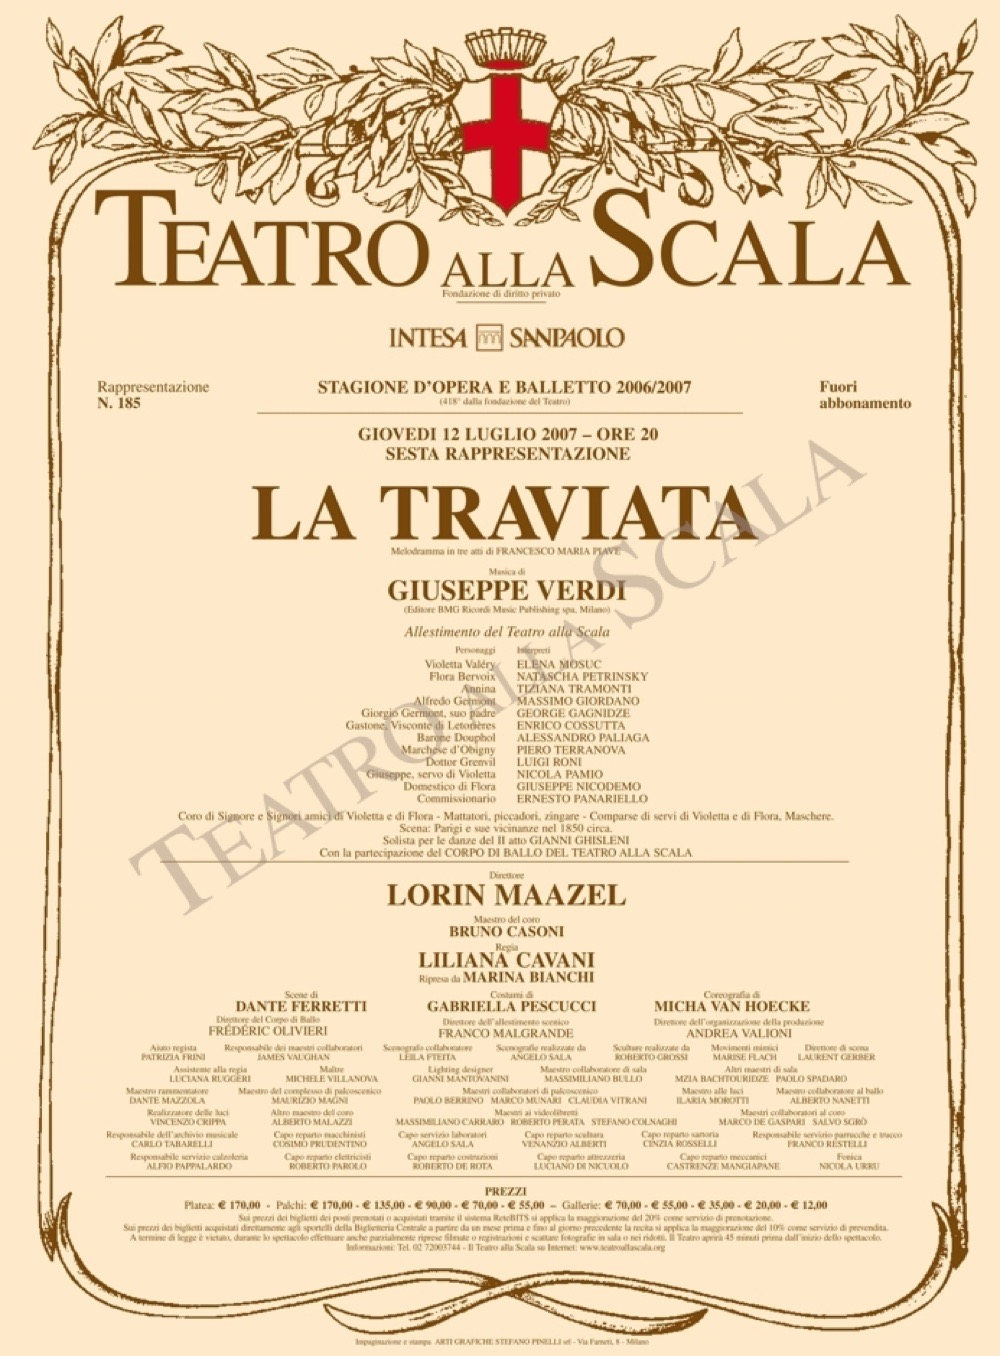
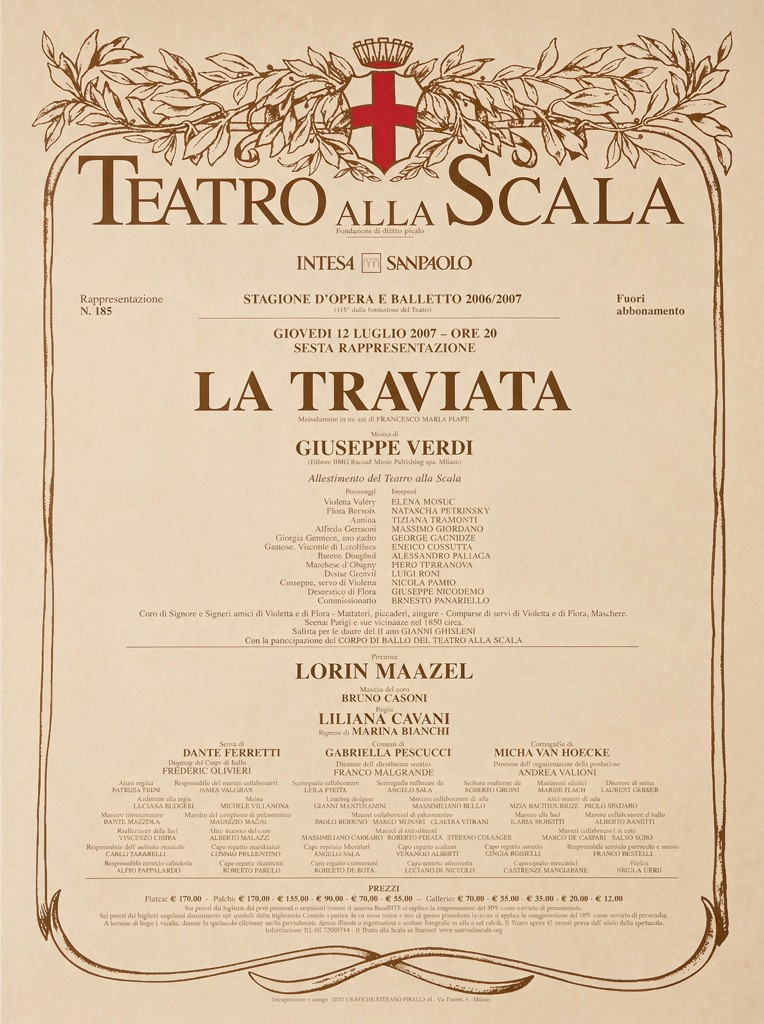
Traviata 2007: locandina pulita, e le due Violette

diff --git a/it/repertorio.html b/it/repertorio.html
@@ -175,7 +175,7 @@
     <h2>Verdi</h2>
     <ul class="rep" style="margin-top:22px">
       <li><span class="role">Alfredo Germont</span> <span class="work">La traviata</span>
-        <span class="houses">Metropolitan, 20, 23, 27, 31 ottobre e 3, 6, 12, 15, 20 novembre 2008, Paolo Carignani, allestimento di Franco Zeffirelli, con <strong>Anja Harteros</strong> · Teatro alla Scala, 12, 16, 19 e 21 luglio 2007, <strong>Lorin Maazel</strong>, regia di Liliana Cavani, con Elena Mosuc · Staatsoper di Vienna, 3, 6, 9 e 12 settembre 2013, Marco Armiliato, con <strong>Simon Keenlyside</strong> · Bayerische Staatsoper · Deutsche Oper Berlin · Staatsoper Unter den Linden · Teatro Bol’šoj · Hamburgische Staatsoper · Teatro Regio di Torino · Teatro Regio di Parma, Festival Verdi, 9, 13 e 15 ottobre 2007 (Yuri Temirkanov, regia Karl-Ernst e Ursel Herrmann, con Svetla Vassileva) · Teatro Verdi di Trieste · LA Opera · Santa Fe Opera</span></li>
+        <span class="houses">Metropolitan, 20, 23, 27, 31 ottobre e 3, 6, 12, 15, 20 novembre 2008, Paolo Carignani, allestimento di Franco Zeffirelli, con <strong>Anja Harteros</strong> · Teatro alla Scala, 12, 16, 19 e 21 luglio 2007, <strong>Lorin Maazel</strong>, regia di Liliana Cavani, scene di Dante Ferretti, costumi di Gabriella Pescucci, con Elena Mosuc e Irina Lungu che si alternavano come Violetta · Staatsoper di Vienna, 3, 6, 9 e 12 settembre 2013, Marco Armiliato, con <strong>Simon Keenlyside</strong> · Bayerische Staatsoper · Deutsche Oper Berlin · Staatsoper Unter den Linden · Teatro Bol’šoj · Hamburgische Staatsoper · Teatro Regio di Torino · Teatro Regio di Parma, Festival Verdi, 9, 13 e 15 ottobre 2007 (Yuri Temirkanov, regia Karl-Ernst e Ursel Herrmann, con Svetla Vassileva) · Teatro Verdi di Trieste · LA Opera · Santa Fe Opera</span></li>
       <li><span class="role">Don Carlo · Don Carlos</span> <span class="work">Don Carlo / Don Carlos</span>
         <span class="houses">Maggio Musicale Fiorentino, maggio 2013 (Zubin Mehta, in forma di concerto) · Semperoper di Dresda, febbraio 2016 · Deutsche Oper Berlin · Dutch National Opera · Opera di Stoccarda (versione francese, 2019) · El Escorial</span></li>
       <li><span class="role">Cavaradossi</span> <span class="work">Tosca</span>

diff --git a/repertoire.html b/repertoire.html
@@ -175,7 +175,7 @@
     <h2>Verdi</h2>
     <ul class="rep" style="margin-top:22px">
       <li><span class="role">Alfredo Germont</span> <span class="work">La traviata</span>
-        <span class="houses">Metropolitan Opera, 20, 23, 27, 31 October and 3, 6, 12, 15, 20 November 2008, Paolo Carignani, Franco Zeffirelli’s production, with <strong>Anja Harteros</strong> · Teatro alla Scala, 12, 16, 19 and 21 July 2007, <strong>Lorin Maazel</strong>, dir. Liliana Cavani, with Elena Mosuc · Vienna State Opera, 3, 6, 9 and 12 September 2013, Marco Armiliato, with <strong>Simon Keenlyside</strong> · Bavarian State Opera · Deutsche Oper Berlin · Staatsoper Unter den Linden · Bolshoi Theatre · Hamburg State Opera · Teatro Regio di Torino · Teatro Regio di Parma, Festival Verdi, 9, 13 and 15 October 2007 (Yuri Temirkanov, dir. Karl-Ernst and Ursel Herrmann, with Svetla Vassileva) · Teatro Verdi, Trieste · LA Opera · Santa Fe Opera</span></li>
+        <span class="houses">Metropolitan Opera, 20, 23, 27, 31 October and 3, 6, 12, 15, 20 November 2008, Paolo Carignani, Franco Zeffirelli’s production, with <strong>Anja Harteros</strong> · Teatro alla Scala, 12, 16, 19 and 21 July 2007, <strong>Lorin Maazel</strong>, dir. Liliana Cavani, sets by Dante Ferretti, costumes by Gabriella Pescucci, with Elena Mosuc and Irina Lungu alternating as Violetta · Vienna State Opera, 3, 6, 9 and 12 September 2013, Marco Armiliato, with <strong>Simon Keenlyside</strong> · Bavarian State Opera · Deutsche Oper Berlin · Staatsoper Unter den Linden · Bolshoi Theatre · Hamburg State Opera · Teatro Regio di Torino · Teatro Regio di Parma, Festival Verdi, 9, 13 and 15 October 2007 (Yuri Temirkanov, dir. Karl-Ernst and Ursel Herrmann, with Svetla Vassileva) · Teatro Verdi, Trieste · LA Opera · Santa Fe Opera</span></li>
       <li><span class="role">Don Carlo · Don Carlos</span> <span class="work">Don Carlo / Don Carlos</span>
         <span class="houses">Maggio Musicale Fiorentino, May 2013 (Zubin Mehta, in concert) · Semperoper Dresden, February 2016 · Deutsche Oper Berlin · Dutch National Opera · Stuttgart Opera (French version, 2019) · El Escorial</span></li>
       <li><span class="role">Cavaradossi</span> <span class="work">Tosca</span>

diff --git a/it/locandine.html b/it/locandine.html
@@ -518,7 +518,7 @@
         </figcaption>
       </figure>
       <figure class="locandina">
-        <img src="../assets/img/locandine-teatri/scala-traviata-2007.jpg" alt="La traviata, Teatro alla Scala" loading="lazy" width="1000" height="1356">
+        <img src="../assets/img/locandine-teatri/scala-traviata-2007.jpg" alt="La traviata, Teatro alla Scala" loading="lazy" width="764" height="1024">
         <figcaption>
           <strong>La traviata</strong><br>
           <span class="muted">Teatro alla Scala · 12 luglio 2007 · con Elena Mosuc e George Gagnidze · Lorin Maazel · regia di Liliana Cavani, scene di Dante Ferretti, costumi di Gabriella Pescucci</span>

diff --git a/posters.html b/posters.html
@@ -518,7 +518,7 @@
         </figcaption>
       </figure>
       <figure class="locandina">
-        <img src="assets/img/locandine-teatri/scala-traviata-2007.jpg" alt="La traviata, Teatro alla Scala" loading="lazy" width="1000" height="1356">
+        <img src="assets/img/locandine-teatri/scala-traviata-2007.jpg" alt="La traviata, Teatro alla Scala" loading="lazy" width="764" height="1024">
         <figcaption>
           <strong>La traviata</strong><br>
           <span class="muted">Teatro alla Scala · 12 July 2007 · with Elena Mosuc and George Gagnidze · Lorin Maazel · directed by Liliana Cavani, sets by Dante Ferretti, costumes by Gabriella Pescucci</span>
